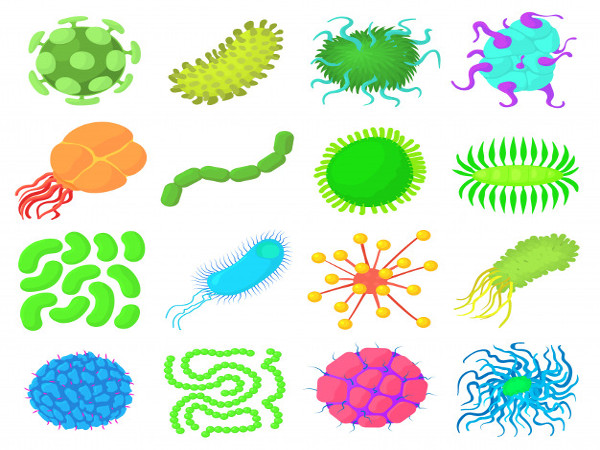
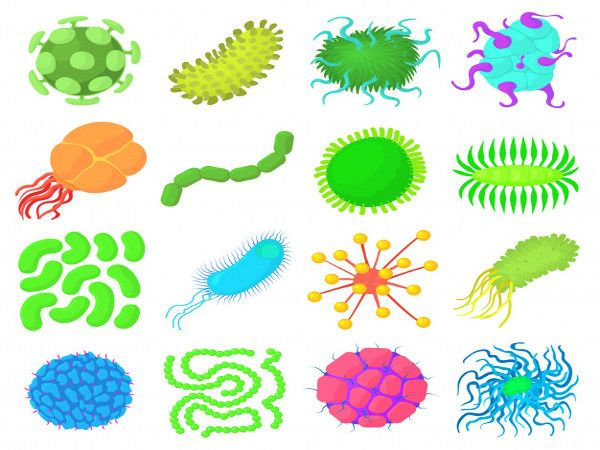
comprimiendo las imagenes

diff --git a/index.html b/index.html
@@ -92,7 +92,7 @@
             
                     <!-- first slide -->
                     <div class="carousel-item active">
-                        <img class="d-block w-100" src="/images/imagesSlides/sotanosEdificios.png" alt="fumigacion de sotanos y edificios">
+                        <img class="d-block w-100" src="/images/imagesSlides/sotanosEdificios.jpg" alt="fumigacion de sotanos y edificios">
                         <div class="carousel-caption d-md-block">
                             <h3 data-animation="animated bounceInLeft">
                                 Fumigación de Sótanos y Edificios
@@ -102,7 +102,7 @@
                 
                     <!-- second slide -->
                     <div class="carousel-item">
-                        <img class="d-block w-100" src="/images/imagesSlides/pistasVeredas.png" alt="fumigacion de pistas y veredas">
+                        <img class="d-block w-100" src="/images/imagesSlides/pistasVeredas.jpg" alt="fumigacion de pistas y veredas">
                         <div class="carousel-caption d-md-block">
                             <h3 data-animation="animated bounceInLeft">
                                 Fumigación de Pistas y Veredas
@@ -112,7 +112,7 @@
                 
                     <!-- third slide -->
                     <div class="carousel-item">
-                        <img class="d-block w-100" src="/images/imagesSlides/establecimientosComerciales.png" alt="fumigacion de establecimientos comerciales">
+                        <img class="d-block w-100" src="/images/imagesSlides/establecimientosComerciales.jpg" alt="fumigacion de establecimientos comerciales">
                         <div class="carousel-caption d-md-block">
                             <h3 data-animation="animated bounceInLeft">
                                 Fumigación de Establecimientos Comerciales
@@ -122,7 +122,7 @@
 
                     <!-- fourth slide -->
                     <div class="carousel-item">
-                        <img class="d-block w-100" src="/images/imagesSlides/centrosEducativos.png" alt="fumigacion de centros educativos">
+                        <img class="d-block w-100" src="/images/imagesSlides/centrosEducativos.jpg" alt="fumigacion de centros educativos">
                         <div class="carousel-caption d-md-block">
                             <h3 data-animation="animated bounceInLeft">
                                 Fumigación de Centros Educativos
@@ -132,7 +132,7 @@
 
                     <!-- fifth slide -->
                     <div class="carousel-item">
-                        <img class="d-block w-100" src="/images/imagesSlides/depositosAlmacenes.png" alt="fumigacion de depósitos y almacenes">
+                        <img class="d-block w-100" src="/images/imagesSlides/depositosAlmacenes.jpg" alt="fumigacion de depósitos y almacenes">
                         <div class="carousel-caption d-md-block">
                             <h3 data-animation="animated bounceInLeft">
                                 Fumigación de Depósitos y Almacenes
@@ -188,7 +188,7 @@
                 </div>
                 <div class="col-sm-4">
                     <div class="card">
-                        <img src="/images/imagesServices/limpiezaAmbientes.png" class="card-img-top" alt="limpieza de ambientes">
+                        <img src="/images/imagesServices/limpiezaAmbientes.jpg" class="card-img-top" alt="limpieza de ambientes">
                         <div class="card-body">
                         <h5 class="card-title">Limpieza Integral de Ambientes</h5>
                         <p class="card-text">Entorno limpio y saludable para mejorar la producción.</p>
@@ -198,7 +198,7 @@
                 </div>
                 <div class="col-sm-4">
                     <div class="card">
-                        <img src="/images/imagesServices/limpiezaTanquesAgua.png" class="card-img-top" alt="limpieza de tanques de agua">
+                        <img src="/images/imagesServices/limpiezaTanquesAgua.jpg" class="card-img-top" alt="limpieza de tanques de agua">
                         <div class="card-body">
                         <h5 class="card-title">Limpieza de Tanques de Agua</h5>
                         <p class="card-text">Eliminación de residuos (suciedad, hongos, mohos , algas y otros) adheridas a las paredes del tanque.</p>
@@ -216,7 +216,7 @@
                 </div>
                 <div class="col-sm-8">
                     <div>
-                        <img src="/images/imageCertificate/certificate.png" class="img-fluid certificate-container" alt="certificado de fumigacion">
+                        <img src="/images/imageCertificate/certificate.jpg" class="img-fluid certificate-container" alt="certificado de fumigacion">
                     </div>
                 </div>
             </div>
@@ -227,9 +227,9 @@
                 <div class="col-sm-10">
                     <div class="row justify-content-center">
                         <div class="col-sm-10 text-center">
-                            <img src="/images/imagesCustomers/municipalidadHuancayo.png" alt="municipalidad de chilca logotipo" class="img-thumbnail w-30  logo-autoriza mb-2">
-                            <img src="/images/imagesCustomers/municipalidadHuancayo.png" alt="sunat logotipo" class="img-thumbnail w-30 logo-autoriza mb-2">
-                            <img src="/images/imagesCustomers/municipalidadHuancayo.png" alt="indecopi logotipo" class="img-thumbnail w-30 logo-autoriza mb-2">
+                            <img src="/images/imagesCustomers/municipalidadHuancayo.jpg" alt="municipalidad de chilca logotipo" class="img-thumbnail w-30  logo-autoriza mb-2">
+                            <img src="/images/imagesCustomers/municipalidadHuancayo.jpg" alt="sunat logotipo" class="img-thumbnail w-30 logo-autoriza mb-2">
+                            <img src="/images/imagesCustomers/municipalidadHuancayo.jpg" alt="indecopi logotipo" class="img-thumbnail w-30 logo-autoriza mb-2">
                         </div>
                     </div>
                 </div>
@@ -238,9 +238,9 @@
                 <div class="col-sm-10">
                     <div class="row justify-content-center">
                         <div class="col-sm-10 text-center">
-                            <img src="/images/imagesCustomers/municipalidadHuancayo.png" alt="municipalidad de chilca logotipo" class="img-thumbnail w-30 logo-autoriza mb-2">
-                            <img src="/images/imagesCustomers/municipalidadHuancayo.png" alt="sunat logotipo" class="img-thumbnail w-30 logo-autoriza mb-2">
-                            <img src="/images/imagesCustomers/municipalidadHuancayo.png" alt="indecopi logotipo" class="img-thumbnail w-30 logo-autoriza mb-2">
+                            <img src="/images/imagesCustomers/municipalidadHuancayo.jpg" alt="municipalidad de chilca logotipo" class="img-thumbnail w-30 logo-autoriza mb-2">
+                            <img src="/images/imagesCustomers/municipalidadHuancayo.jpg" alt="sunat logotipo" class="img-thumbnail w-30 logo-autoriza mb-2">
+                            <img src="/images/imagesCustomers/municipalidadHuancayo.jpg" alt="indecopi logotipo" class="img-thumbnail w-30 logo-autoriza mb-2">
                         </div>
                     </div>
                 </div>
@@ -304,20 +304,20 @@
             <h2 class="section-tittle">Autorizados por</h2>
             <div class="row justify-content-center">
                 <div class="col-sm-10 text-center">
-                    <img src="/images/logosAutorizan/minsa.png" alt="minsa logotipo" class="img-thumbnail w-30  logo-autoriza mb-2">
-                    <img src="/images/logosAutorizan/diresa.png" alt="diresa junin logotipo" class="img-thumbnail w-30 logo-autoriza mb-2">
+                    <img src="/images/logosAutorizan/minsa.jpg" alt="minsa logotipo" class="img-thumbnail w-30  logo-autoriza mb-2">
+                    <img src="/images/logosAutorizan/diresa.jpg" alt="diresa junin logotipo" class="img-thumbnail w-30 logo-autoriza mb-2">
                 </div>
             </div>
             <div class="row justify-content-center">
                 <div class="col-sm-10 text-center">
-                    <img src="/images/logosAutorizan/rnpOsce.png" alt="rnpOsce logotipo" class="img-thumbnail w-100 logo-autoriza-double mb-2">
+                    <img src="/images/logosAutorizan/rnpOsce.jpg" alt="rnpOsce logotipo" class="img-thumbnail w-100 logo-autoriza-double mb-2">
                 </div>
             </div>
             <div class="row justify-content-center">
                 <div class="col-sm-10 text-center">
-                    <img src="/images/logosAutorizan/municipalidadChilca.png" alt="municipalidad de chilca logotipo" class="img-thumbnail w-30 logo-autoriza mb-2">
-                    <img src="/images/logosAutorizan/sunat.png" alt="sunat logotipo" class="img-thumbnail w-30 logo-autoriza mb-2">
-                    <img src="/images/logosAutorizan/indecopi.png" alt="indecopi logotipo" class="img-thumbnail w-30 logo-autoriza mb-2">
+                    <img src="/images/logosAutorizan/municipalidadChilca.jpg" alt="municipalidad de chilca logotipo" class="img-thumbnail w-30 logo-autoriza mb-2">
+                    <img src="/images/logosAutorizan/sunat.jpg" alt="sunat logotipo" class="img-thumbnail w-30 logo-autoriza mb-2">
+                    <img src="/images/logosAutorizan/indecopi.jpg" alt="indecopi logotipo" class="img-thumbnail w-30 logo-autoriza mb-2">
                 </div>
             </div>
             <div class="row justify-content-center">

diff --git a/empresa.html b/empresa.html
@@ -170,8 +170,8 @@
         <h2 class="section-tittle">Registros</h2>
         <div class="row justify-content-center">
             <div class="col-sm-10 text-center">
-                <img src="/images/logosAutorizan/minsa.png" alt="minsa logotipo" class="img-thumbnail w-30  logo-autoriza mb-2">
-                <img src="/images/logosAutorizan/diresa.png" alt="diresa junin logotipo" class="img-thumbnail w-30 logo-autoriza mb-2">
+                <img src="/images/logosAutorizan/minsa.jpg" alt="minsa logotipo" class="img-thumbnail w-30  logo-autoriza mb-2">
+                <img src="/images/logosAutorizan/diresa.jpg" alt="diresa junin logotipo" class="img-thumbnail w-30 logo-autoriza mb-2">
             </div>
         </div>
         <div class="row justify-content-md-center">
@@ -181,7 +181,7 @@
         </div>  
         <div class="row justify-content-center">
             <div class="col-sm-10 text-center">
-                <img src="/images/logosAutorizan/municipalidadChilca.png" alt="logotipo municipalidad de chilca" class="img-thumbnail w-30  logo-autoriza mb-2">
+                <img src="/images/logosAutorizan/municipalidadChilca.jpg" alt="logotipo municipalidad de chilca" class="img-thumbnail w-30  logo-autoriza mb-2">
             </div>
         </div>
         <div class="row justify-content-md-center">
@@ -191,8 +191,8 @@
         </div>
         <div class="row justify-content-center">
             <div class="col-sm-10 text-center">
-                <img src="/images/logosAutorizan/sunat.png" alt="minsa logotipo" class="img-thumbnail w-30  logo-autoriza mb-2">
-                <img src="/images/logosAutorizan/indecopi.png" alt="diresa junin logotipo" class="img-thumbnail w-30 logo-autoriza mb-2">
+                <img src="/images/logosAutorizan/sunat.jpg" alt="minsa logotipo" class="img-thumbnail w-30  logo-autoriza mb-2">
+                <img src="/images/logosAutorizan/indecopi.jpg" alt="diresa junin logotipo" class="img-thumbnail w-30 logo-autoriza mb-2">
             </div>
         </div>
         <div class="row justify-content-md-center">
@@ -202,7 +202,7 @@
         </div>
         <div class="row justify-content-center">
             <div class="col-sm-10 text-center">
-                <img src="/images/logosAutorizan/rnpOsce.png" alt="rnpOsce logotipo" class="img-thumbnail w-100 logo-autoriza-double mb-2">
+                <img src="/images/logosAutorizan/rnpOsce.jpg" alt="rnpOsce logotipo" class="img-thumbnail w-100 logo-autoriza-double mb-2">
             </div>
         </div>
     </section>

diff --git a/contactenos.html b/contactenos.html
@@ -119,18 +119,17 @@
                         <li><i class="fab fa-whatsapp"></i> <a href="https://wa.me/051921713100?text=Hola%20Emsem%20Fumiga">921 713 100</a></li>
                         <li><i class="fab fa-whatsapp"></i> <a href="https://wa.me/051910356566?text=Hola%20Emsem%20Fumiga">910 356 566</a></li>
                     </ul>
-                    <h3>Email</h3>
-                    <ul>
-                        <li><i class="fas fa-envelope"></i> <a href="mailto:emsemwankaperu@gmail.com">emsemwankaperu@gmail.com</a></li>
-                    </ul>
                 </div>
             </div>
             <div class="col-sm">
-                <h3>Dirección</h3>
-                <ul>
-                    <li><i class="fas fa-map-marker-alt"></i> Pr. Amazonas N° 402 - Chilca</li>
-                </ul>
-                <div id="map"></div>
+                <h3>Email</h3>
+                    <ul>
+                        <li><i class="fas fa-envelope"></i> <a href="mailto:emsemwankaperu@gmail.com">emsemwankaperu@gmail.com</a></li>
+                    </ul>
+                    <h3>Dirección</h3>
+                    <ul>
+                        <li><i class="fas fa-map-marker-alt"></i> Pr. Amazonas N° 402 - Chilca</li>
+                    </ul>
             </div>
         </div>
     </section>
@@ -197,23 +196,6 @@
         </div>
         </div>
     </footer>
-    <script>
-        function initMap() {
-        var myLatLng = {lat: -12.079118, lng: -75.201392};
-
-        var map = new google.maps.Map(document.getElementById('map'), {
-            zoom: 16,
-            center: myLatLng
-        });
-
-        var marker = new google.maps.Marker({
-            position: myLatLng,
-            map: map,
-            title: 'Emsem Wanka Peru!'
-        });
-        }
-    </script>
-    <script src="https://maps.googleapis.com/maps/api/js?key=AIzaSyAPEO7S1QaJZBDSiz-2f5yllfH3ZkCksBQ&callback=initMap" async defer></script>
     <script src="https://code.jquery.com/jquery-3.4.1.slim.min.js" integrity="sha384-J6qa4849blE2+poT4WnyKhv5vZF5SrPo0iEjwBvKU7imGFAV0wwj1yYfoRSJoZ+n" crossorigin="anonymous"></script>
     <script src="https://cdn.jsdelivr.net/npm/popper.js@1.16.0/dist/umd/popper.min.js" integrity="sha384-Q6E9RHvbIyZFJoft+2mJbHaEWldlvI9IOYy5n3zV9zzTtmI3UksdQRVvoxMfooAo" crossorigin="anonymous"></script>
     <script src="https://stackpath.bootstrapcdn.com/bootstrap/4.4.1/js/bootstrap.min.js" integrity="sha384-wfSDF2E50Y2D1uUdj0O3uMBJnjuUD4Ih7YwaYd1iqfktj0Uod8GCExl3Og8ifwB6" crossorigin="anonymous"></script>

diff --git a/servicios.html b/servicios.html
@@ -89,7 +89,7 @@
             </div>
             <div class="col-sm-6 text-center">
                 <div>
-                    <img src="/images/imagesServices/desinsectacion.png" class="img-fluid img-thumbnail" alt="Responsive image">
+                    <img src="/images/imagesServices/desinsectacion.jpg" class="img-fluid img-thumbnail" alt="Responsive image">
                 </div>
             </div>
         </div>
@@ -143,7 +143,7 @@
             </div>
             <div class="col-sm-6 text-center">
                 <div>
-                    <img src="/images/imagesServices/limpiezaAmbientes.png" class="img-fluid img-thumbnail" alt="Responsive image">
+                    <img src="/images/imagesServices/limpiezaAmbientes.jpg" class="img-fluid img-thumbnail" alt="Responsive image">
                 </div>
             </div>
         </div>
@@ -163,7 +163,7 @@
             </div>
             <div class="col-sm-6 text-center">
                 <div>
-                    <img src="/images/imagesServices/limpiezaTanquesAgua.png" class="img-fluid img-thumbnail" alt="Responsive image">
+                    <img src="/images/imagesServices/limpiezaTanquesAgua.jpg" class="img-fluid img-thumbnail" alt="Responsive image">
                 </div>
             </div>
         </div>
